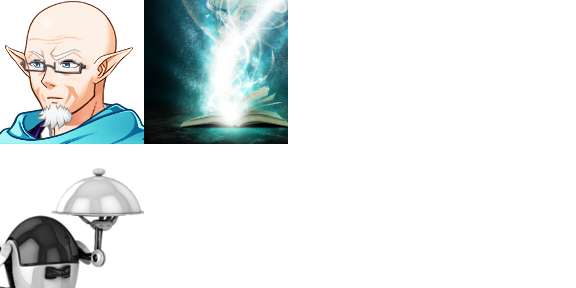
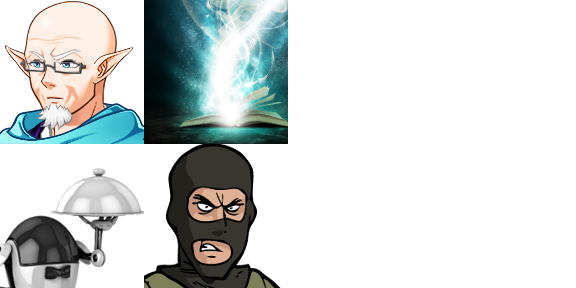
Created Weakling thug character. Closes #35

Changed region(s): [[0.25, 0.5, 0.5, 1.0]]

diff --git a/js/plugins.js b/js/plugins.js
@@ -148,7 +148,7 @@ var $plugins =
 {"name":"YEP_MapGoldWindow","status":true,"description":"v1.01 Allows you to display the gold window on your map.","parameters":{"Automatic Open":"false","Default Position":"9","Opacity":"255"}},
 {"name":"YEP_MapSelectEquip","status":true,"description":"v1.00 Open up a window similar to the Select Item Window,\nbut instead, returns weapon/armor ID's to a variable.","parameters":{"Default Columns":"2","Default Rows":"4","Default X Position":"center","Default Y Position":"bottom","Default Width":"0","Default Enable":"true","Default Quantity":"true"}},
 {"name":"YEP_MapSelectSkill","status":true,"description":"v1.02 Open up a window similar to the Select Item Window,\nbut instead, returns Skill ID's to a variable.","parameters":{"Default Columns":"2","Default Rows":"4","Default X Position":"right","Default Y Position":"bottom","Default Width":"0","Default Enable":"true","Default Cost":"true"}},
-{"name":"YEP_MusicMenu","status":true,"description":"v1.00 Access and play music from a menu! Players can unlock\nsongs from in the game as they play.","parameters":{"---General---":"","Music Icon":"80","Hidden Name":"? ? ? ? ?","Hidden Help":"This song hasn't been unlocked yet.","---Song List---":"","Song 1 Data":"Theme1; Title Theme; 90; 100; 0; Title theme for this game!","Song 2 Data":"Battle1; Let's Battle; 100; 100; 0; En garde!","Song 3 Data":"Field1; World of Fantasy; 90; 110; 0; The overworld theme!","Song 4 Data":"Town1; Calm, Peaceful Days; 90; 100; 0; Our town theme!","Song 5 Data":"Castle1; Castle Royalty; 90; 100; 0; Living a life of royalty!","Song 6 Data":"Dungeon1; Depths of Dungeon Diving; 90; 100; 0; So mysterious!","Song 7 Data":"Scene1; Day to Day; 90; 100; 0; Living life one day at a time!","Song 8 Data":"Ship1; Let's Set Sail!; 90; 100; 0; Ahoy! To open waters we go!","Song 9 Data":"","Song 10 Data":"","Song 11 Data":"","Song 12 Data":"","Song 13 Data":"","Song 14 Data":"","Song 15 Data":"","Song 16 Data":"","Song 17 Data":"","Song 18 Data":"","Song 19 Data":"","Song 20 Data":"","Song 21 Data":"","Song 22 Data":"","Song 23 Data":"","Song 24 Data":"","Song 25 Data":"","Song 26 Data":"","Song 27 Data":"","Song 28 Data":"","Song 29 Data":"","Song 30 Data":"","Song 31 Data":"","Song 32 Data":"","Song 33 Data":"","Song 34 Data":"","Song 35 Data":"","Song 36 Data":"","Song 37 Data":"","Song 38 Data":"","Song 39 Data":"","Song 40 Data":"","Song 41 Data":"","Song 42 Data":"","Song 43 Data":"","Song 44 Data":"","Song 45 Data":"","Song 46 Data":"","Song 47 Data":"","Song 48 Data":"","Song 49 Data":"","Song 50 Data":"","Song 51 Data":"","Song 52 Data":"","Song 53 Data":"","Song 54 Data":"","Song 55 Data":"","Song 56 Data":"","Song 57 Data":"","Song 58 Data":"","Song 59 Data":"","Song 60 Data":"","Song 61 Data":"","Song 62 Data":"","Song 63 Data":"","Song 64 Data":"","Song 65 Data":"","Song 66 Data":"","Song 67 Data":"","Song 68 Data":"","Song 69 Data":"","Song 70 Data":"","Song 71 Data":"","Song 72 Data":"","Song 73 Data":"","Song 74 Data":"","Song 75 Data":"","Song 76 Data":"","Song 77 Data":"","Song 78 Data":"","Song 79 Data":"","Song 80 Data":"","Song 81 Data":"","Song 82 Data":"","Song 83 Data":"","Song 84 Data":"","Song 85 Data":"","Song 86 Data":"","Song 87 Data":"","Song 88 Data":"","Song 89 Data":"","Song 90 Data":"","Song 91 Data":"","Song 92 Data":"","Song 93 Data":"","Song 94 Data":"","Song 95 Data":"","Song 96 Data":"","Song 97 Data":"","Song 98 Data":"","Song 99 Data":"","Song 100 Data":""}},
+{"name":"YEP_MusicMenu","status":true,"description":"v1.01 Access and play music from a menu! Players can unlock\nsongs from in the game as they play.","parameters":{"---General---":"","Music Icon":"80","Hidden Name":"? ? ? ? ?","Hidden Help":"This song hasn't been unlocked yet.","---Song List---":"","Song 1 Data":"Theme1; Title Theme; 90; 100; 0; Title theme for this game!","Song 2 Data":"Battle1; Let's Battle; 100; 100; 0; En garde!","Song 3 Data":"Field1; World of Fantasy; 90; 110; 0; The overworld theme!","Song 4 Data":"Town1; Calm, Peaceful Days; 90; 100; 0; Our town theme!","Song 5 Data":"Castle1; Castle Royalty; 90; 100; 0; Living a life of royalty!","Song 6 Data":"Dungeon1; Depths of Dungeon Diving; 90; 100; 0; So mysterious!","Song 7 Data":"Scene1; Day to Day; 90; 100; 0; Living life one day at a time!","Song 8 Data":"Ship1; Let's Set Sail!; 90; 100; 0; Ahoy! To open waters we go!","Song 9 Data":"","Song 10 Data":"","Song 11 Data":"","Song 12 Data":"","Song 13 Data":"","Song 14 Data":"","Song 15 Data":"","Song 16 Data":"","Song 17 Data":"","Song 18 Data":"","Song 19 Data":"","Song 20 Data":"","Song 21 Data":"","Song 22 Data":"","Song 23 Data":"","Song 24 Data":"","Song 25 Data":"","Song 26 Data":"","Song 27 Data":"","Song 28 Data":"","Song 29 Data":"","Song 30 Data":"","Song 31 Data":"","Song 32 Data":"","Song 33 Data":"","Song 34 Data":"","Song 35 Data":"","Song 36 Data":"","Song 37 Data":"","Song 38 Data":"","Song 39 Data":"","Song 40 Data":"","Song 41 Data":"","Song 42 Data":"","Song 43 Data":"","Song 44 Data":"","Song 45 Data":"","Song 46 Data":"","Song 47 Data":"","Song 48 Data":"","Song 49 Data":"","Song 50 Data":"","Song 51 Data":"","Song 52 Data":"","Song 53 Data":"","Song 54 Data":"","Song 55 Data":"","Song 56 Data":"","Song 57 Data":"","Song 58 Data":"","Song 59 Data":"","Song 60 Data":"","Song 61 Data":"","Song 62 Data":"","Song 63 Data":"","Song 64 Data":"","Song 65 Data":"","Song 66 Data":"","Song 67 Data":"","Song 68 Data":"","Song 69 Data":"","Song 70 Data":"","Song 71 Data":"","Song 72 Data":"","Song 73 Data":"","Song 74 Data":"","Song 75 Data":"","Song 76 Data":"","Song 77 Data":"","Song 78 Data":"","Song 79 Data":"","Song 80 Data":"","Song 81 Data":"","Song 82 Data":"","Song 83 Data":"","Song 84 Data":"","Song 85 Data":"","Song 86 Data":"","Song 87 Data":"","Song 88 Data":"","Song 89 Data":"","Song 90 Data":"","Song 91 Data":"","Song 92 Data":"","Song 93 Data":"","Song 94 Data":"","Song 95 Data":"","Song 96 Data":"","Song 97 Data":"","Song 98 Data":"","Song 99 Data":"","Song 100 Data":""}},
 {"name":"YEP_PictureCommonEvents","status":false,"description":"v1.05 Causes common events to run when certain pictures\nare clicked while on the map.","parameters":{"---General---":"","Enable Touch Move":"true","Hide Message":"true","---Picture 1---":"","Picture 1 Click":"0","Picture 1 Repeat":"0","Picture 1 Hold":"0","Picture 1 Release":"0","---Picture 2---":"","Picture 2 Click":"0","Picture 2 Repeat":"0","Picture 2 Hold":"0","Picture 2 Release":"0","---Picture 3---":"","Picture 3 Click":"0","Picture 3 Repeat":"0","Picture 3 Hold":"0","Picture 3 Release":"0","---Picture 4---":"","Picture 4 Click":"0","Picture 4 Repeat":"0","Picture 4 Hold":"0","Picture 4 Release":"0","---Picture 5---":"","Picture 5 Click":"0","Picture 5 Repeat":"0","Picture 5 Hold":"0","Picture 5 Release":"0","---Picture 6---":"","Picture 6 Click":"0","Picture 6 Repeat":"0","Picture 6 Hold":"0","Picture 6 Release":"0","---Picture 7---":"","Picture 7 Click":"0","Picture 7 Repeat":"0","Picture 7 Hold":"0","Picture 7 Release":"0","---Picture 8---":"","Picture 8 Click":"0","Picture 8 Repeat":"0","Picture 8 Hold":"0","Picture 8 Release":"0","---Picture 9---":"","Picture 9 Click":"0","Picture 9 Repeat":"0","Picture 9 Hold":"0","Picture 9 Release":"0","---Picture 10---":"","Picture 10 Click":"0","Picture 10 Repeat":"0","Picture 10 Hold":"0","Picture 10 Release":"0","---Picture 11---":"","Picture 11 Click":"0","Picture 11 Repeat":"0","Picture 11 Hold":"0","Picture 11 Release":"0","---Picture 12---":"","Picture 12 Click":"0","Picture 12 Repeat":"0","Picture 12 Hold":"0","Picture 12 Release":"0","---Picture 13---":"","Picture 13 Click":"0","Picture 13 Repeat":"0","Picture 13 Hold":"0","Picture 13 Release":"0","---Picture 14---":"","Picture 14 Click":"0","Picture 14 Repeat":"0","Picture 14 Hold":"0","Picture 14 Release":"0","---Picture 15---":"","Picture 15 Click":"0","Picture 15 Repeat":"0","Picture 15 Hold":"0","Picture 15 Release":"0","---Picture 16---":"","Picture 16 Click":"0","Picture 16 Repeat":"0","Picture 16 Hold":"0","Picture 16 Release":"0","---Picture 17---":"","Picture 17 Click":"0","Picture 17 Repeat":"0","Picture 17 Hold":"0","Picture 17 Release":"0","---Picture 18---":"","Picture 18 Click":"0","Picture 18 Repeat":"0","Picture 18 Hold":"0","Picture 18 Release":"0","---Picture 19---":"","Picture 19 Click":"0","Picture 19 Repeat":"0","Picture 19 Hold":"0","Picture 19 Release":"0","---Picture 20---":"","Picture 20 Click":"0","Picture 20 Repeat":"0","Picture 20 Hold":"0","Picture 20 Release":"0","---Picture 21---":"","Picture 21 Click":"0","Picture 21 Repeat":"0","Picture 21 Hold":"0","Picture 21 Release":"0","---Picture 22---":"","Picture 22 Click":"0","Picture 22 Repeat":"0","Picture 22 Hold":"0","Picture 22 Release":"0","---Picture 23---":"","Picture 23 Click":"0","Picture 23 Repeat":"0","Picture 23 Hold":"0","Picture 23 Release":"0","---Picture 24---":"","Picture 24 Click":"0","Picture 24 Repeat":"0","Picture 24 Hold":"0","Picture 24 Release":"0","---Picture 25---":"","Picture 25 Click":"0","Picture 25 Repeat":"0","Picture 25 Hold":"0","Picture 25 Release":"0","---Picture 26---":"","Picture 26 Click":"0","Picture 26 Repeat":"0","Picture 26 Hold":"0","Picture 26 Release":"0","---Picture 27---":"","Picture 27 Click":"0","Picture 27 Repeat":"0","Picture 27 Hold":"0","Picture 27 Release":"0","---Picture 28---":"","Picture 28 Click":"0","Picture 28 Repeat":"0","Picture 28 Hold":"0","Picture 28 Release":"0","---Picture 29---":"","Picture 29 Click":"0","Picture 29 Repeat":"0","Picture 29 Hold":"0","Picture 29 Release":"0","---Picture 30---":"","Picture 30 Click":"0","Picture 30 Repeat":"0","Picture 30 Hold":"0","Picture 30 Release":"0","---Picture 31---":"","Picture 31 Click":"0","Picture 31 Repeat":"0","Picture 31 Hold":"0","Picture 31 Release":"0","---Picture 32---":"","Picture 32 Click":"0","Picture 32 Repeat":"0","Picture 32 Hold":"0","Picture 32 Release":"0","---Picture 33---":"","Picture 33 Click":"0","Picture 33 Repeat":"0","Picture 33 Hold":"0","Picture 33 Release":"0","---Picture 34---":"","Picture 34 Click":"0","Picture 34 Repeat":"0","Picture 34 Hold":"0","Picture 34 Release":"0","---Picture 35---":"","Picture 35 Click":"0","Picture 35 Repeat":"0","Picture 35 Hold":"0","Picture 35 Release":"0","---Picture 36---":"","Picture 36 Click":"0","Picture 36 Repeat":"0","Picture 36 Hold":"0","Picture 36 Release":"0","---Picture 37---":"","Picture 37 Click":"0","Picture 37 Repeat":"0","Picture 37 Hold":"0","Picture 37 Release":"0","---Picture 38---":"","Picture 38 Click":"0","Picture 38 Repeat":"0","Picture 38 Hold":"0","Picture 38 Release":"0","---Picture 39---":"","Picture 39 Click":"0","Picture 39 Repeat":"0","Picture 39 Hold":"0","Picture 39 Release":"0","---Picture 40---":"","Picture 40 Click":"0","Picture 40 Repeat":"0","Picture 40 Hold":"0","Picture 40 Release":"0","---Picture 41---":"","Picture 41 Click":"0","Picture 41 Repeat":"0","Picture 41 Hold":"0","Picture 41 Release":"0","---Picture 42---":"","Picture 42 Click":"0","Picture 42 Repeat":"0","Picture 42 Hold":"0","Picture 42 Release":"0","---Picture 43---":"","Picture 43 Click":"0","Picture 43 Repeat":"0","Picture 43 Hold":"0","Picture 43 Release":"0","---Picture 44---":"","Picture 44 Click":"0","Picture 44 Repeat":"0","Picture 44 Hold":"0","Picture 44 Release":"0","---Picture 45---":"","Picture 45 Click":"0","Picture 45 Repeat":"0","Picture 45 Hold":"0","Picture 45 Release":"0","---Picture 46---":"","Picture 46 Click":"0","Picture 46 Repeat":"0","Picture 46 Hold":"0","Picture 46 Release":"0","---Picture 47---":"","Picture 47 Click":"0","Picture 47 Repeat":"0","Picture 47 Hold":"0","Picture 47 Release":"0","---Picture 48---":"","Picture 48 Click":"0","Picture 48 Repeat":"0","Picture 48 Hold":"0","Picture 48 Release":"0","---Picture 49---":"","Picture 49 Click":"0","Picture 49 Repeat":"0","Picture 49 Hold":"0","Picture 49 Release":"0","---Picture 50---":"","Picture 50 Click":"0","Picture 50 Repeat":"0","Picture 50 Hold":"0","Picture 50 Release":"0","---Picture 51---":"","Picture 51 Click":"0","Picture 51 Repeat":"0","Picture 51 Hold":"0","Picture 51 Release":"0","---Picture 52---":"","Picture 52 Click":"0","Picture 52 Repeat":"0","Picture 52 Hold":"0","Picture 52 Release":"0","---Picture 53---":"","Picture 53 Click":"0","Picture 53 Repeat":"0","Picture 53 Hold":"0","Picture 53 Release":"0","---Picture 54---":"","Picture 54 Click":"0","Picture 54 Repeat":"0","Picture 54 Hold":"0","Picture 54 Release":"0","---Picture 55---":"","Picture 55 Click":"0","Picture 55 Repeat":"0","Picture 55 Hold":"0","Picture 55 Release":"0","---Picture 56---":"","Picture 56 Click":"0","Picture 56 Repeat":"0","Picture 56 Hold":"0","Picture 56 Release":"0","---Picture 57---":"","Picture 57 Click":"0","Picture 57 Repeat":"0","Picture 57 Hold":"0","Picture 57 Release":"0","---Picture 58---":"","Picture 58 Click":"0","Picture 58 Repeat":"0","Picture 58 Hold":"0","Picture 58 Release":"0","---Picture 59---":"","Picture 59 Click":"0","Picture 59 Repeat":"0","Picture 59 Hold":"0","Picture 59 Release":"0","---Picture 60---":"","Picture 60 Click":"0","Picture 60 Repeat":"0","Picture 60 Hold":"0","Picture 60 Release":"0","---Picture 61---":"","Picture 61 Click":"0","Picture 61 Repeat":"0","Picture 61 Hold":"0","Picture 61 Release":"0","---Picture 62---":"","Picture 62 Click":"0","Picture 62 Repeat":"0","Picture 62 Hold":"0","Picture 62 Release":"0","---Picture 63---":"","Picture 63 Click":"0","Picture 63 Repeat":"0","Picture 63 Hold":"0","Picture 63 Release":"0","---Picture 64---":"","Picture 64 Click":"0","Picture 64 Repeat":"0","Picture 64 Hold":"0","Picture 64 Release":"0","---Picture 65---":"","Picture 65 Click":"0","Picture 65 Repeat":"0","Picture 65 Hold":"0","Picture 65 Release":"0","---Picture 66---":"","Picture 66 Click":"0","Picture 66 Repeat":"0","Picture 66 Hold":"0","Picture 66 Release":"0","---Picture 67---":"","Picture 67 Click":"0","Picture 67 Repeat":"0","Picture 67 Hold":"0","Picture 67 Release":"0","---Picture 68---":"","Picture 68 Click":"0","Picture 68 Repeat":"0","Picture 68 Hold":"0","Picture 68 Release":"0","---Picture 69---":"","Picture 69 Click":"0","Picture 69 Repeat":"0","Picture 69 Hold":"0","Picture 69 Release":"0","---Picture 70---":"","Picture 70 Click":"0","Picture 70 Repeat":"0","Picture 70 Hold":"0","Picture 70 Release":"0","---Picture 71---":"","Picture 71 Click":"0","Picture 71 Repeat":"0","Picture 71 Hold":"0","Picture 71 Release":"0","---Picture 72---":"","Picture 72 Click":"0","Picture 72 Repeat":"0","Picture 72 Hold":"0","Picture 72 Release":"0","---Picture 73---":"","Picture 73 Click":"0","Picture 73 Repeat":"0","Picture 73 Hold":"0","Picture 73 Release":"0","---Picture 74---":"","Picture 74 Click":"0","Picture 74 Repeat":"0","Picture 74 Hold":"0","Picture 74 Release":"0","---Picture 75---":"","Picture 75 Click":"0","Picture 75 Repeat":"0","Picture 75 Hold":"0","Picture 75 Release":"0","---Picture 76---":"","Picture 76 Click":"0","Picture 76 Repeat":"0","Picture 76 Hold":"0","Picture 76 Release":"0","---Picture 77---":"","Picture 77 Click":"0","Picture 77 Repeat":"0","Picture 77 Hold":"0","Picture 77 Release":"0","---Picture 78---":"","Picture 78 Click":"0","Picture 78 Repeat":"0","Picture 78 Hold":"0","Picture 78 Release":"0","---Picture 79---":"","Picture 79 Click":"0","Picture 79 Repeat":"0","Picture 79 Hold":"0","Picture 79 Release":"0","---Picture 80---":"","Picture 80 Click":"0","Picture 80 Repeat":"0","Picture 80 Hold":"0","Picture 80 Release":"0","---Picture 81---":"","Picture 81 Click":"0","Picture 81 Repeat":"0","Picture 81 Hold":"0","Picture 81 Release":"0","---Picture 82---":"","Picture 82 Click":"0","Picture 82 Repeat":"0","Picture 82 Hold":"0","Picture 82 Release":"0","---Picture 83---":"","Picture 83 Click":"0","Picture 83 Repeat":"0","Picture 83 Hold":"0","Picture 83 Release":"0","---Picture 84---":"","Picture 84 Click":"0","Picture 84 Repeat":"0","Picture 84 Hold":"0","Picture 84 Release":"0","---Picture 85---":"","Picture 85 Click":"0","Picture 85 Repeat":"0","Picture 85 Hold":"0","Picture 85 Release":"0","---Picture 86---":"","Picture 86 Click":"0","Picture 86 Repeat":"0","Picture 86 Hold":"0","Picture 86 Release":"0","---Picture 87---":"","Picture 87 Click":"0","Picture 87 Repeat":"0","Picture 87 Hold":"0","Picture 87 Release":"0","---Picture 88---":"","Picture 88 Click":"0","Picture 88 Repeat":"0","Picture 88 Hold":"0","Picture 88 Release":"0","---Picture 89---":"","Picture 89 Click":"0","Picture 89 Repeat":"0","Picture 89 Hold":"0","Picture 89 Release":"0","---Picture 90---":"","Picture 90 Click":"0","Picture 90 Repeat":"0","Picture 90 Hold":"0","Picture 90 Release":"0","---Picture 91---":"","Picture 91 Click":"869","Picture 91 Repeat":"0","Picture 91 Hold":"0","Picture 91 Release":"0","---Picture 92---":"","Picture 92 Click":"0","Picture 92 Repeat":"0","Picture 92 Hold":"872","Picture 92 Release":"0","---Picture 93---":"","Picture 93 Click":"0","Picture 93 Repeat":"0","Picture 93 Hold":"873","Picture 93 Release":"0","---Picture 94---":"","Picture 94 Click":"0","Picture 94 Repeat":"0","Picture 94 Hold":"874","Picture 94 Release":"0","---Picture 95---":"","Picture 95 Click":"0","Picture 95 Repeat":"0","Picture 95 Hold":"875","Picture 95 Release":"0","---Picture 96---":"","Picture 96 Click":"870","Picture 96 Repeat":"0","Picture 96 Hold":"0","Picture 96 Release":"0","---Picture 97---":"","Picture 97 Click":"876","Picture 97 Repeat":"0","Picture 97 Hold":"0","Picture 97 Release":"0","---Picture 98---":"","Picture 98 Click":"877","Picture 98 Repeat":"0","Picture 98 Hold":"0","Picture 98 Release":"0","---Picture 99---":"","Picture 99 Click":"878","Picture 99 Repeat":"0","Picture 99 Hold":"0","Picture 99 Release":"0","---Picture 100---":"","Picture 100 Click":"879","Picture 100 Repeat":"0","Picture 100 Hold":"0","Picture 100 Release":"0"}},
 {"name":"YEP_RegionBattlebacks","status":true,"description":"v1.00 This lets you assign certain battlebacks to specific\nregion ID's when entering battle in that region.","parameters":{"----------":"","Default 1":"Grassland","Default 2":"Grassland","Ship 1":"Ship","Ship 2":"Ship","Forest 1":"There is none.","Forest 2":"Forest","Cliff 1":"There is none.","Cliff 2":"Cliff","Wasteland 1":"Wasteland","Wasteland 2":"Wasteland","Dirtfield 1":"Wasteland","Dirtfield 2":"There is none.","Desert 1":"Desert","Desert 2":"Desert","Lava1 1":"Lava1","Lava1 2":"Lava","Lava2 1":"Lava2","Lava2 2":"Lava","Snowfield 1":"Snowfield","Snowfield 2":"Snowfield","Clouds 1":"Clouds","Clouds 2":"Clouds","PoisonSwamp 1":"PoisonSwamp","PoisonSwamp 2":"PoisonSwamp"}},
 {"name":"YEP_RegionEvents","status":true,"description":"v1.03 Make it so that whenever players step on certain\r\nRegion ID's, the game will play certain common events.","parameters":{"---Regions 1 to 20---":"","Region 1":"0","Region 2":"0","Region 3":"0","Region 4":"0","Region 5":"0","Region 6":"0","Region 7":"0","Region 8":"0","Region 9":"0","Region 10":"0","Region 11":"0","Region 12":"0","Region 13":"0","Region 14":"0","Region 15":"0","Region 16":"0","Region 17":"0","Region 18":"0","Region 19":"0","Region 20":"0","---Regions 21 to 40---":"","Region 21":"0","Region 22":"0","Region 23":"0","Region 24":"0","Region 25":"18","Region 26":"0","Region 27":"0","Region 28":"0","Region 29":"0","Region 30":"0","Region 31":"0","Region 32":"0","Region 33":"0","Region 34":"0","Region 35":"0","Region 36":"0","Region 37":"19","Region 38":"0","Region 39":"0","Region 40":"0","---Regions 41 to 60---":"","Region 41":"0","Region 42":"0","Region 43":"0","Region 44":"0","Region 45":"0","Region 46":"0","Region 47":"0","Region 48":"0","Region 49":"20","Region 50":"0","Region 51":"0","Region 52":"0","Region 53":"0","Region 54":"0","Region 55":"0","Region 56":"0","Region 57":"0","Region 58":"0","Region 59":"0","Region 60":"0","---Regions 61 to 80---":"","Region 61":"0","Region 62":"0","Region 63":"0","Region 64":"0","Region 65":"0","Region 66":"0","Region 67":"0","Region 68":"0","Region 69":"0","Region 70":"0","Region 71":"0","Region 72":"0","Region 73":"0","Region 74":"0","Region 75":"0","Region 76":"0","Region 77":"0","Region 78":"0","Region 79":"0","Region 80":"0","---Regions 81 to 100---":"","Region 81":"0","Region 82":"0","Region 83":"0","Region 84":"0","Region 85":"0","Region 86":"0","Region 87":"0","Region 88":"0","Region 89":"0","Region 90":"0","Region 91":"0","Region 92":"0","Region 93":"0","Region 94":"0","Region 95":"0","Region 96":"0","Region 97":"0","Region 98":"0","Region 99":"0","Region 100":"0","---Regions 101 to 120---":"","Region 101":"0","Region 102":"0","Region 103":"0","Region 104":"0","Region 105":"0","Region 106":"0","Region 107":"0","Region 108":"0","Region 109":"0","Region 110":"0","Region 111":"0","Region 112":"0","Region 113":"0","Region 114":"0","Region 115":"0","Region 116":"0","Region 117":"0","Region 118":"0","Region 119":"0","Region 120":"0","---Regions 121 to 140---":"","Region 121":"0","Region 122":"0","Region 123":"0","Region 124":"0","Region 125":"0","Region 126":"0","Region 127":"0","Region 128":"0","Region 129":"0","Region 130":"0","Region 131":"0","Region 132":"0","Region 133":"0","Region 134":"0","Region 135":"0","Region 136":"0","Region 137":"0","Region 138":"0","Region 139":"0","Region 140":"0","---Regions 141 to 160---":"","Region 141":"0","Region 142":"0","Region 143":"0","Region 144":"0","Region 145":"0","Region 146":"0","Region 147":"0","Region 148":"0","Region 149":"0","Region 150":"0","Region 151":"0","Region 152":"0","Region 153":"0","Region 154":"0","Region 155":"0","Region 156":"0","Region 157":"0","Region 158":"0","Region 159":"0","Region 160":"0","---Regions 161 to 180---":"","Region 161":"0","Region 162":"0","Region 163":"0","Region 164":"0","Region 165":"0","Region 166":"0","Region 167":"0","Region 168":"0","Region 169":"0","Region 170":"0","Region 171":"0","Region 172":"0","Region 173":"0","Region 174":"0","Region 175":"0","Region 176":"0","Region 177":"0","Region 178":"0","Region 179":"0","Region 180":"0","---Regions 181 to 200---":"","Region 181":"0","Region 182":"0","Region 183":"0","Region 184":"0","Region 185":"0","Region 186":"0","Region 187":"0","Region 188":"0","Region 189":"0","Region 190":"0","Region 191":"0","Region 192":"0","Region 193":"0","Region 194":"0","Region 195":"0","Region 196":"0","Region 197":"0","Region 198":"0","Region 199":"0","Region 200":"0","---Regions 201 to 220---":"","Region 201":"0","Region 202":"0","Region 203":"0","Region 204":"0","Region 205":"0","Region 206":"0","Region 207":"0","Region 208":"0","Region 209":"0","Region 210":"0","Region 211":"0","Region 212":"0","Region 213":"0","Region 214":"0","Region 215":"0","Region 216":"0","Region 217":"0","Region 218":"0","Region 219":"0","Region 220":"0","---Regions 221 to 240---":"","Region 221":"0","Region 222":"0","Region 223":"0","Region 224":"0","Region 225":"0","Region 226":"0","Region 227":"0","Region 228":"0","Region 229":"0","Region 230":"0","Region 231":"0","Region 232":"0","Region 233":"0","Region 234":"0","Region 235":"0","Region 236":"0","Region 237":"0","Region 238":"0","Region 239":"0","Region 240":"0","---Regions 241 to 255---":"","Region 241":"0","Region 242":"0","Region 243":"0","Region 244":"0","Region 245":"0","Region 246":"0","Region 247":"0","Region 248":"0","Region 249":"0","Region 250":"0","Region 251":"0","Region 252":"0","Region 253":"0","Region 254":"0","Region 255":"0"}},
